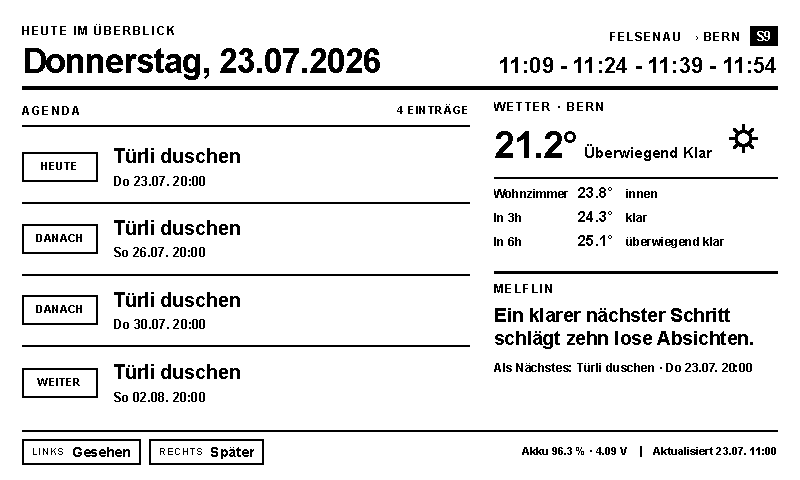
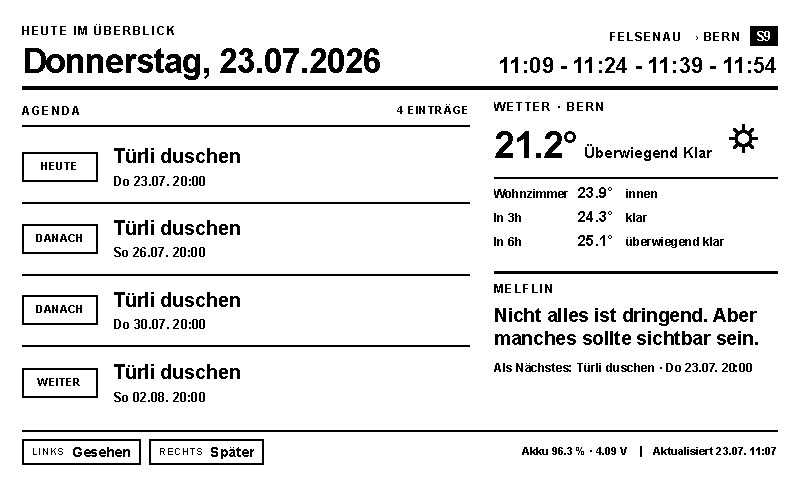
Refresh published display pages

Changed region(s): [[0.625, 0.625, 0.9375, 0.7188]]

diff --git a/static/melflin-display/index.html b/static/melflin-display/index.html
@@ -109,11 +109,11 @@
             <div class='weather-now'><span class='weather-temp'>21.2°</span><span class='weather-desc'>überwiegend klar</span></div>
             <div class='weather-icon' aria-label='Wetter'><svg viewBox='0 0 64 64' aria-hidden='true'><g fill='none' stroke='#111' stroke-width='3.8' stroke-linecap='round' stroke-linejoin='round'><circle cx='24' cy='24' r='9'/><path d='M24 8v6M24 34v6M8 24h6M34 24h6M13 13l4 4M31 31l4 4M13 35l4-4M31 17l4-4'/></g></svg></div>
           </div>
-          <div class='weather-list'><div class='weather-row'><span>Wohnzimmer</span><strong>23.8°</strong><span>innen</span></div><div class='weather-row'><span>In 3h</span><strong>24.3°</strong><span>klar</span></div><div class='weather-row'><span>In 6h</span><strong>25.1°</strong><span>überwiegend klar</span></div></div>
+          <div class='weather-list'><div class='weather-row'><span>Wohnzimmer</span><strong>23.9°</strong><span>innen</span></div><div class='weather-row'><span>In 3h</span><strong>24.3°</strong><span>klar</span></div><div class='weather-row'><span>In 6h</span><strong>25.1°</strong><span>überwiegend klar</span></div></div>
         </div>
         <div class='panel panel-note'>
           <div class='eyebrow'>Melflin</div>
-          <div class='note'>Ein klarer nächster Schritt schlägt zehn lose Absichten.</div>
+          <div class='note'>Nicht alles ist dringend. Aber manches sollte sichtbar sein.</div>
           <div class='note-secondary'>Als Nächstes: Türli duschen · Do 23.07. 20:00</div>
         </div>
       </div>
@@ -122,7 +122,7 @@
       <div class='button-legend' aria-label='Tastenbelegung'><div class='button-hint' data-button='left'><span class='button-key'>Links</span><span class='button-action'>Gesehen</span></div><div class='button-hint' data-button='right'><span class='button-key'>Rechts</span><span class='button-action'>Später</span></div></div>
       <div class='footer-meta'>
         <span>Akku 96.3 % · 4.09 V</span>
-        <span>Aktualisiert 23.07. 11:00</span>
+        <span>Aktualisiert 23.07. 11:07</span>
       </div>
     </div>
   </div>

diff --git a/public/melflin-display/family/index.html b/public/melflin-display/family/index.html
@@ -78,7 +78,7 @@
         </div>
         </div>
     </div>
-    <div class='update'>Letztes Update 23.07. 11:00</div>
+    <div class='update'>Letztes Update 23.07. 11:07</div>
   </div>
 </body>
 </html>

diff --git a/static/melflin-display/family.html b/static/melflin-display/family.html
@@ -78,7 +78,7 @@
         </div>
         </div>
     </div>
-    <div class='update'>Letztes Update 23.07. 11:00</div>
+    <div class='update'>Letztes Update 23.07. 11:07</div>
   </div>
 </body>
 </html>

diff --git a/static/melflin-display/family/index.html b/static/melflin-display/family/index.html
@@ -78,7 +78,7 @@
         </div>
         </div>
     </div>
-    <div class='update'>Letztes Update 23.07. 11:00</div>
+    <div class='update'>Letztes Update 23.07. 11:07</div>
   </div>
 </body>
 </html>